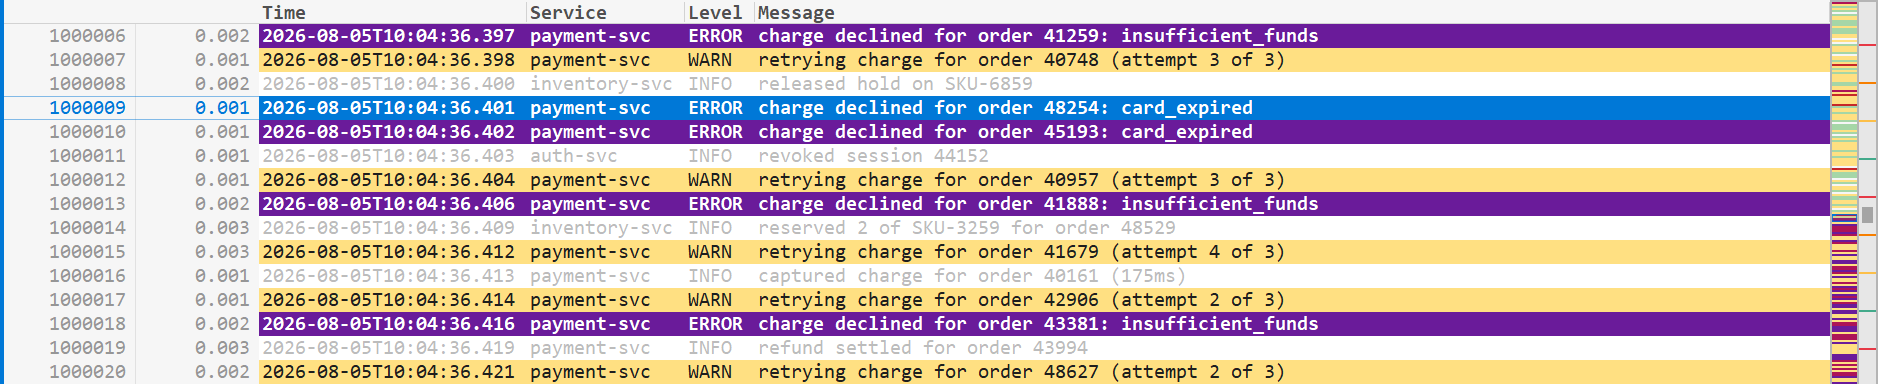
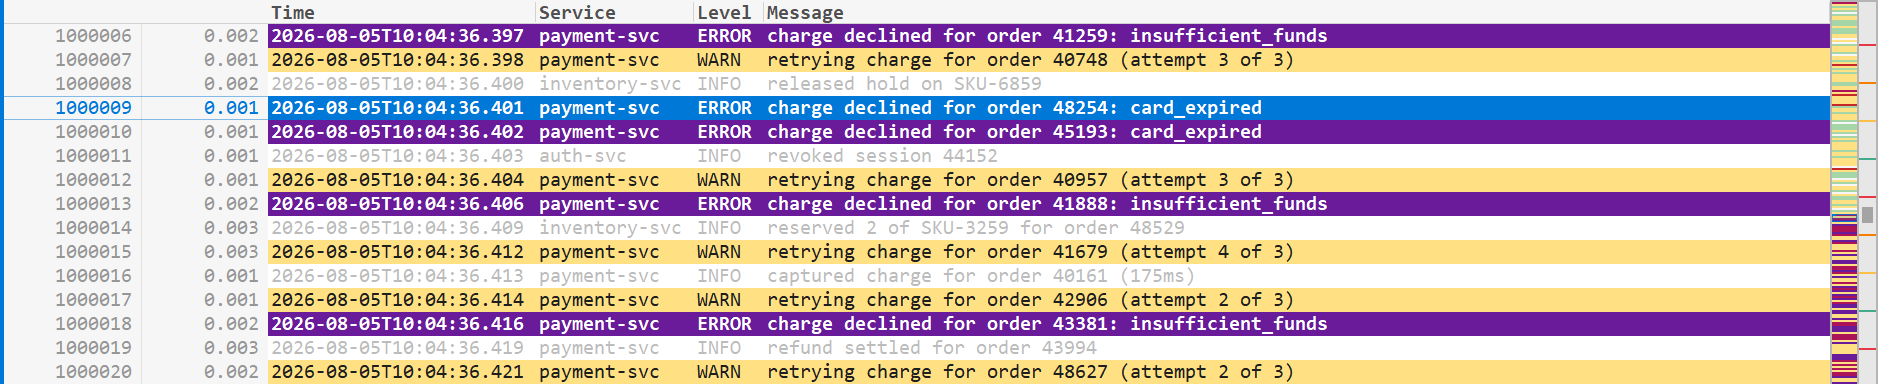
Say "Δ Prev" and give a line number room to breathe
Three from reading the last commit back.

THE KEYS WERE PICKED FOR THE FEATURE AND THE PLACE AT ONCE, which is why they
looked arbitrary: E for Elapsed and B for Bar are two different questions. Each
key is now the letter its own entry underlines - "In the &Margin" is
Ctrl+Shift+M, "In the Status &Bar" is Ctrl+Shift+B - so there is one letter to
learn per entry and it is already on screen. Ctrl+Shift+S would have matched
"Status" better still, but Ctrl+S here saves filters and every app in the world
reads Ctrl+Shift+S as Save As. The check states the rule rather than writing the
pair down twice, so renaming an entry off its key fails it.

"Gap" says two lines have something between them, not WHICH two. A difference
has a direction and nothing in a signed number carries it, so the slot says
"Δ Prev" - the delta against the previous line, as against the next.

THE LINE NUMBERS HAD THREE PIXELS TO THEIR LEFT AND NINE TO THEIR RIGHT. The box
was padded by a raw 12 device pixels while the text was inset by a scaled 6, so
the two only agreed at 100% - at 150% the numbers sat against the window edge.
That mismatch was mine, from the commit before this one, which took a raw 6 that
had always been there and made it scale without touching the box around it. One
MarginPad now, on both sides of both margin columns, and at 100% it comes out at
exactly the figures it always had.

MUTATION-TESTING NOTE, both from getting it wrong first: the ink has to be read
[…]

Changed region(s): [[0.0309, 0.0, 0.7103, 1.0]]

diff --git a/src/Cascade.App/SelfTest.cs b/src/Cascade.App/SelfTest.cs
@@ -7998,6 +7998,27 @@ internal static class SelfTest
                         RuleIsDrawnAt(grid, grid.ElapsedGutterLeftForTesting),
                         $"nothing darker at x={grid.ElapsedGutterLeftForTesting}");
 
+            // The air either side of a line number has to MATCH, and has to scale. It did neither: the box
+            // was padded by a raw 12 device pixels while the text was inset by a scaled 6, so at 150% the
+            // numbers had 3 pixels to their left and 9 to their right and sat against the window edge.
+            // Two things the reading depends on: the END of the file, where the numbers are as wide as the
+            // box was sized for and so fill it (a short number is right-aligned and leaves more on the left,
+            // which would let the fault through); and the focus elsewhere, because the accent bar runs down
+            // the very edge the air is measured from and a focus indicator is not the margin.
+            form.ClickMenuForTesting("View", "Focus Filter List");
+            grid.GoToLine(299);
+            Pump();
+            string margins = grid.MarginLayoutForTesting;
+            Line("   (" + margins + ")");
+            int pad = Figure(margins, "pad="), numbers = Figure(margins, "numbers=");
+            var (leftAir, rightAir) = MarginAir(grid, Figure(margins, "markers="), numbers);
+            ok &= Check("and a line number has the same air either side of it, whatever the display's scale",
+                        pad >= form.LogicalToDeviceUnits(6) && leftAir >= pad - 1 && rightAir >= pad - 1
+                        && Math.Abs(leftAir - rightAir) <= pad,
+                        $"{margins}; ink sits {leftAir} from the left and {rightAir} from the right");
+            form.ClickMenuForTesting("View", "Focus Text Area");
+            Pump();
+
             // The width is what the text to its right is placed by, so it has to come from the widest value
             // the format can EVER draw rather than from the ones on screen.
             int room = grid.ElapsedGutterWidthForTesting;
@@ -8008,12 +8029,12 @@ internal static class SelfTest
             grid.GoToLine(41);
             Pump();
             ok &= Check("the status bar measures the same line the margin does",
-                        form.ElapsedSlotForTesting == "Gap: 1 s", form.ElapsedSlotForTesting);
+                        form.ElapsedSlotForTesting == "\u0394 Prev: 1 s", form.ElapsedSlotForTesting);
 
             grid.SelectRowForAccessibility(40);
             for (int i = 0; i < 9; i++) grid.PressKeyForTesting(Keys.Down | Keys.Shift);
             Pump();
-            ok &= Check("and calls a stretch of lines a span, not a gap",
+            ok &= Check("and calls a stretch of lines a span, not a difference from the line above",
                         form.ElapsedSlotForTesting == "Span: 9 s", form.ElapsedSlotForTesting);
 
             // The whole point of the column: with the noise filtered away it measures between one
@@ -8042,7 +8063,7 @@ internal static class SelfTest
             for (int i = 0; i < 100 && !doc.IsFilterIdle; i++) { Thread.Sleep(20); Pump(); }
             Pump();
             ok &= Check("a selection the filters have hidden is measured where the view puts it instead",
-                        form.ElapsedSlotForTesting.StartsWith("Gap: ", StringComparison.Ordinal)
+                        form.ElapsedSlotForTesting.StartsWith("\u0394 Prev: ", StringComparison.Ordinal)
                         && !form.ElapsedSlotForTesting.Contains('\u2014', StringComparison.Ordinal),
                         form.ElapsedSlotForTesting);
             filters.ShowOnlyFilteredLines = false;
@@ -8111,11 +8132,11 @@ internal static class SelfTest
             // the menu items, because whether they may run depends on the log having a clock - and the items
             // only learn that when the View menu is opened.
             int margin = grid.ElapsedGutterWidthForTesting;
-            ok &= Check("Ctrl+Shift+E takes the margin away",
-                        form.PressCmdKeyForTesting(Keys.Control | Keys.Shift | Keys.E)
+            ok &= Check("Ctrl+Shift+M takes the margin away",
+                        form.PressCmdKeyForTesting(Keys.Control | Keys.Shift | Keys.M)
                         && grid.ElapsedGutterWidthForTesting == 0, $"{grid.ElapsedGutterWidthForTesting}px");
             ok &= Check("and brings it back exactly as it was",
-                        form.PressCmdKeyForTesting(Keys.Control | Keys.Shift | Keys.E)
+                        form.PressCmdKeyForTesting(Keys.Control | Keys.Shift | Keys.M)
                         && grid.ElapsedGutterWidthForTesting == margin,
                         $"{margin} -> {grid.ElapsedGutterWidthForTesting}");
             form.PressCmdKeyForTesting(Keys.Control | Keys.Shift | Keys.B);
@@ -8126,9 +8147,19 @@ internal static class SelfTest
             Pump();
             ok &= Check("and puts it back", form.ElapsedSlotForTesting.Length > 0);
 
-            ok &= Check("and the menu says which keys they are",
-                        form.ElapsedMenuKeysForTesting() == "Ctrl+Shift+E|Ctrl+Shift+B",
-                        form.ElapsedMenuKeysForTesting());
+            // The rule the pair was chosen by, stated rather than written down twice: each key is the letter
+            // its own entry underlines, so there is one letter to learn per entry.
+            string advertised = form.ElapsedMenuKeysForTesting();
+            Line("   (" + advertised + ")");
+            bool matched = advertised.Split('|').Length == 2 && advertised.Split('|').All(entry =>
+            {
+                string[] parts = entry.Split('=');
+                int amp = parts[0].IndexOf('&', StringComparison.Ordinal);
+                return parts.Length == 2 && amp >= 0 && amp + 1 < parts[0].Length
+                    && parts[1].StartsWith("Ctrl+Shift+", StringComparison.Ordinal)
+                    && parts[1][^1] == char.ToUpperInvariant(parts[0][amp + 1]);
+            });
+            ok &= Check("and each key is the letter its own entry underlines", matched, advertised);
 
             // On a log with no clock the key must fall through rather than silently flip a setting nobody
             // can see the effect of.
@@ -8136,7 +8167,7 @@ internal static class SelfTest
             for (int i = 0; i < 100 && doc.Clock is not null; i++) { Thread.Sleep(20); Pump(); }
             bool wasOn = form.ShowElapsedGutterForTesting;
             ok &= Check("and neither key claims itself on a log with no clock",
-                        !form.PressCmdKeyForTesting(Keys.Control | Keys.Shift | Keys.E)
+                        !form.PressCmdKeyForTesting(Keys.Control | Keys.Shift | Keys.M)
                         && !form.PressCmdKeyForTesting(Keys.Control | Keys.Shift | Keys.B)
                         && form.ShowElapsedGutterForTesting == wasOn);
 
@@ -8153,6 +8184,34 @@ internal static class SelfTest
 
     private static int PathRoomOf(string layout) => Figure(layout, "pathroom=");
     private static int SlotOf(string layout) => Figure(layout, "elapsed=");
+
+    /// <summary>How far the widest line number's ink sits from each end of the box it is drawn in, read off
+    /// a render of the grid. The arithmetic says how wide the box is; only the pixels say where in it the
+    /// digits ended up. Rows carrying something other than a line number - the caret's row, and the focus
+    /// accent down the left edge - are passed over: neither is the margin.</summary>
+    private static (int Left, int Right) MarginAir(LineGridControl grid, int from, int width)
+    {
+        var area = grid.GutterAreaForTesting;
+        if (width <= 0 || area.Height <= 0) return (-1, -1);
+        using var bmp = new Bitmap(grid.Width, grid.Height);
+        grid.DrawToBitmap(bmp, new Rectangle(0, 0, grid.Width, grid.Height));
+
+        static bool Ink(Color c) => (c.R + c.G + c.B) / 3 < 200;
+        int first = int.MaxValue, last = -1;
+        for (int y = area.Top; y < area.Bottom && y < grid.Height; y++)
+        {
+            // A run reaching the very left edge is the focus accent, not a digit; a row inked end to end is
+            // a fill rather than glyphs. Either way there is no number in it to measure.
+            if (Ink(bmp.GetPixel(from, y))) continue;
+            for (int x = from; x < from + width && x < grid.Width; x++)
+            {
+                if (!Ink(bmp.GetPixel(x, y))) continue;
+                if (x < first) first = x;
+                if (x > last) last = x;
+            }
+        }
+        return last < 0 ? (-1, -1) : (first - from, from + width - 1 - last);
+    }
 
     private static int Figure(string layout, string key)
     {

diff --git a/src/Cascade.App/MainForm.cs b/src/Cascade.App/MainForm.cs
@@ -233,11 +233,12 @@ public sealed class MainForm : Form
                                               + $"={Words(i)}{(i.Available ? "" : "(off)")}"));
     }
 
-    /// <summary>The keys the two elapsed entries advertise. They are not registered as ShortcutKeys, so
-    /// nothing but the displayed string tells a reader they exist - which makes it the thing to check.
-    /// </summary>
+    /// <summary>The two elapsed entries, each with the key it advertises. They are not registered as
+    /// ShortcutKeys, so nothing but the displayed string tells a reader they exist - and the wording is
+    /// here too because the key is meant to BE the letter the entry underlines.</summary>
     internal string ElapsedMenuKeysForTesting()
-        => $"{_miElapsedGutter.ShortcutKeyDisplayString}|{_miElapsedStatus.ShortcutKeyDisplayString}";
+        => string.Join("|", new[] { _miElapsedGutter, _miElapsedStatus }
+            .Select(i => $"{i.Text}={i.ShortcutKeyDisplayString}"));
 
     internal bool ShowElapsedGutterForTesting => _settings.ShowElapsedGutter;
 
@@ -727,8 +728,8 @@ public sealed class MainForm : Form
         _miElapsed = new ToolStripMenuItem("Elap&sed Time");
 
         _miElapsedGutter = new ToolStripMenuItem("In the &Margin", null, (_, _) => ToggleElapsed(margin: true))
-        { ShortcutKeyDisplayString = "Ctrl+Shift+E" };
-        _miElapsedStatus = new ToolStripMenuItem("In the &Status Bar", null, (_, _) => ToggleElapsed(margin: false))
+        { ShortcutKeyDisplayString = "Ctrl+Shift+M" };
+        _miElapsedStatus = new ToolStripMenuItem("In the Status &Bar", null, (_, _) => ToggleElapsed(margin: false))
         { ShortcutKeyDisplayString = "Ctrl+Shift+B" };
         _miNoClock = new ToolStripMenuItem("No timestamp field \u2014 set one in Field Settings") { Enabled = false };
 
@@ -740,7 +741,11 @@ public sealed class MainForm : Form
         return _miElapsed;
     }
 
-    private const Keys ElapsedGutterKey = Keys.Control | Keys.Shift | Keys.E;
+    // Each key is the letter its own item underlines - "In the &Margin", "In the Status &Bar" - so there is
+    // one letter to learn per entry rather than a shortcut vocabulary of its own. Ctrl+Shift+S would have
+    // matched "Status" better still, but Ctrl+S here saves filters and every app in the world reads
+    // Ctrl+Shift+S as Save As.
+    private const Keys ElapsedGutterKey = Keys.Control | Keys.Shift | Keys.M;
     private const Keys ElapsedStatusKey = Keys.Control | Keys.Shift | Keys.B;
 
     /// <summary>Turns one of the two displays on or off, and answers whether it did - so the key can fall
@@ -1038,8 +1043,11 @@ public sealed class MainForm : Form
     /// <summary>The two measurements are named apart on purpose. One line selected gives the time since the
     /// line above it on screen; several give the stretch from the first to the last. They are different
     /// questions with answers orders of magnitude apart, and one word over both would be read as the number
-    /// changing meaning under the reader.</summary>
-    private const string GapPrefix = "Gap: ", SpanPrefix = "Span: ";
+    /// changing meaning under the reader.
+    ///
+    /// <para>"Prev" rather than a bare delta because a difference between two lines has a DIRECTION, and
+    /// nothing in a signed number says which of the two neighbours it was measured against.</para></summary>
+    private const string GapPrefix = "\u0394 Prev: ", SpanPrefix = "Span: ";
 
     private void UpdateElapsed()
     {

diff --git a/src/Cascade.App/LineGridControl.cs b/src/Cascade.App/LineGridControl.cs
@@ -1034,6 +1034,11 @@ public sealed class LineGridControl : Control
 
     private int MarkerGutterWidth => MarkersVisible ? 8 * 5 + 6 : 0;
 
+    /// <summary>The air either side of a figure in the margin, and the SAME air on both sides - the line
+    /// numbers used to have six device pixels of it whatever the display, which at 150% left them all but
+    /// touching the window edge.</summary>
+    private int MarginPad => LogicalToDeviceUnits(6);
+
     private int LineNumberGutterWidth
     {
         get
@@ -1041,7 +1046,7 @@ public sealed class LineGridControl : Control
             if (!_settings.ShowLineNumbers || _doc is null) return 0;
             long max = Math.Max(1, _doc.CompletedLineCount);
             int digits = max.ToString().Length;
-            return digits * _charWidth + 12;
+            return digits * _charWidth + 2 * MarginPad;
         }
     }
 
@@ -1061,7 +1066,7 @@ public sealed class LineGridControl : Control
                 _elapsedWidthAt = _charWidth;
                 _elapsedWidthDigits = digits;
                 _elapsedWidth = TextRenderer.MeasureText(ElapsedText.WidestGutter(digits), FontRegular).Width
-                              + LogicalToDeviceUnits(10);
+                              + 2 * MarginPad;
             }
             return _elapsedWidth;
         }
@@ -1133,6 +1138,12 @@ public sealed class LineGridControl : Control
     /// <summary>Where the elapsed column starts, which is where the hairline between it and the line
     /// numbers is drawn - so a check can go and look at the pixels rather than trust the arithmetic.</summary>
     internal int ElapsedGutterLeftForTesting => MarkerGutterWidth + LineNumberGutterWidth;
+
+    /// <summary>How the margin has divided itself up. The air either side of a figure is the point of it:
+    /// the two must match, and both must scale, or the numbers end up against the window edge.</summary>
+    internal string MarginLayoutForTesting
+        => $"markers={MarkerGutterWidth} numbers={LineNumberGutterWidth} "
+         + $"elapsed={ElapsedGutterWidth} pad={MarginPad} char={_charWidth}";
 
     /// <summary>The topmost display row, so a harness can tell where the view actually ended up.</summary>
     internal long FirstRowForTesting => _firstRow;
@@ -2900,7 +2911,7 @@ public sealed class LineGridControl : Control
     private void DrawMarginText(GdiCanvas ink, ReadOnlySpan<char> text, int x, int y, int width, int height,
                                 Color colour)
     {
-        int gap = LogicalToDeviceUnits(6);
+        int gap = MarginPad;
         ink.Fill(new Rectangle(x, y, width, _rowHeight), _settings.GutterBack);
         var room = new Rectangle(x, y, Math.Max(0, width - gap), _rowHeight);
 

diff --git a/tests/Cascade.UiTests/UiFeatureTests.cs b/tests/Cascade.UiTests/UiFeatureTests.cs
@@ -1004,7 +1004,7 @@ public class UiFeatureTests
         app.ClickMenu("View", "Focus Text Area");
         app.SelectLine(5);
         Check("one line says how long after the line above it was written",
-              app.WaitStatus("Gap:", "Gap: 1 s"), app.StatusText("Gap:"));
+              app.WaitStatus("\u0394 Prev:", "\u0394 Prev: 1 s"), app.StatusText("\u0394 Prev:"));
 
         var grid = app.Grid();
         for (int i = 0; i < 9; i++) app.ShiftKey(grid, VirtualKeyShort.DOWN);
@@ -1015,7 +1015,7 @@ public class UiFeatureTests
         // using belongs to the two paths beside it.
         app.ClickMenu("View", "Elapsed Time", "In the Status Bar");
         bool gone = Retry.WhileFalse(() => !app.AllStatusText().Contains("Span:", StringComparison.Ordinal)
-                                        && !app.AllStatusText().Contains("Gap:", StringComparison.Ordinal),
+                                        && !app.AllStatusText().Contains('\u0394'),
                                      TimeSpan.FromSeconds(4), TimeSpan.FromMilliseconds(50)).Result;
         Check("turning it off takes it off the bar", gone, app.AllStatusText());
 

diff --git a/README.md b/README.md
@@ -115,7 +115,7 @@ A from-scratch reimagining of [TextAnalysisTool.NET](https://textanalysistool.gi
 - The previous line **on screen** — so with the noise filtered away it measures between the lines you kept, which is a latency profile of whatever the filters select.
 - Select a line and the status bar says the same thing in words; select several and it says how long they cover.
 - Lines out of order read as negative, because that is what they are.
-- If your timestamp is somewhere the guess cannot reach, name the field it is in under **Field Settings**; **Ctrl+Shift+E** and **Ctrl+Shift+B** turn the two displays off.
+- If your timestamp is somewhere the guess cannot reach, name the field it is in under **Field Settings**; **Ctrl+Shift+M** and **Ctrl+Shift+B** turn the two displays off.
 
 ### The match map
 
@@ -296,7 +296,7 @@ curl.exe -fL --remove-on-error -o Cascade.exe https://github.com/rahul-ramadas/C
 | `Ctrl+E` | Search the filter list |
 | `Ctrl+M` / `Alt+Z` / `Ctrl+Shift+C` | Match map or plain scrollbar / word wrap / split lines into fields |
 | `Ctrl+Shift+X` / `Ctrl+Shift+D` | Switch field layout / field settings |
-| `Ctrl+Shift+E` / `Ctrl+Shift+B` | Elapsed times in the margin / in the status bar |
+| `Ctrl+Shift+M` / `Ctrl+Shift+B` | Elapsed times in the margin / in the status bar |
 | `Ctrl+Shift+P` / `Ctrl+Shift+L` | Show or hide the presets pane / the filter list |
 | `Ctrl+Shift+T` / `Ctrl+Shift+F` | Focus the log view / the filter list |
 | `Ctrl+Shift+↑ ↓ ← →` | Dock the filter list |
